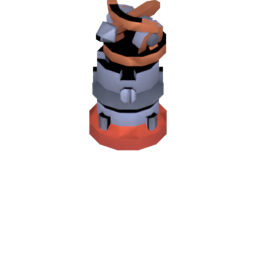
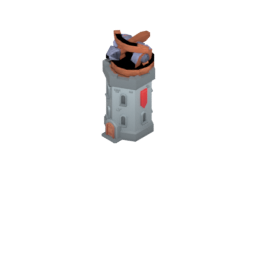
art: 狙擊塔改用 KayKit 中世紀塔座 + Kenney 弩砲，尺寸對齊其他塔
- 塔身換 KayKit Medieval Hexagon 的 tower_base_red（武器平台），與火炮塔
  同視覺家族（灰石+紅旗）；弩砲沉入城垛內平台（dz -0.10、scale 1.45）
- 依現役塔身圖實測內容高（108~115px）把 ortho_scale 調到 5.0：
  改前 151px 且截頂，改後 115px 完整顯示
- render_sprites.py 新增 dz（堆疊後垂直偏移）與 rz（模型自轉）參數

Changed region(s): [[0.3438, 0.0, 0.6562, 0.5938]]

diff --git a/lib/game/tower_defense_game.dart b/lib/game/tower_defense_game.dart
@@ -191,7 +191,8 @@ class TowerDefenseGame extends FlameGame with ScrollDetector, ScaleDetector {
       // 多重箭：Kenney UFO-A 3D 素材（懸浮支援建築）。
       TowerType.multishot:
           await Sprite.load('tower_multishot.png', images: isoImages),
-      // 狙擊塔：Kenney Tower Defense Kit 圓塔＋弩砲（weapon-ballista）。
+      // 狙擊塔：KayKit Medieval Hexagon 塔座（tower_base_red）＋
+      // Kenney 弩砲（weapon-ballista），與火炮塔同視覺家族。
       TowerType.sniper:
           await Sprite.load('tower_sniper.png', images: isoImages),
     };

diff --git a/tool/render_sprites.py b/tool/render_sprites.py
@@ -23,6 +23,10 @@ manifest.json:
   the same projection and world-unit scale (relative sizes are correct).
 - "stack": true places a model on top of the previously imported model's top
   (e.g. a tower standing on a tile); otherwise it sits on the ground (z=0).
+- "dz": optional z offset applied after placement (e.g. negative to sink a
+  weapon down onto a platform floor below the crenellation top).
+- "rz": optional rotation (degrees) around the model's own vertical axis,
+  applied before placement (e.g. turn a weapon to face the camera).
 - Background is transparent.
 """
 
@@ -180,10 +184,17 @@ def main():
                     if o.parent is None:
                         o.scale *= sc
                 bpy.context.view_layer.update()
+            rz = m.get("rz", 0.0)
+            if rz:
+                for o in objs:
+                    if o.parent is None:
+                        o.rotation_euler.rotate_axis("Z", radians(rz))
+                bpy.context.view_layer.update()
             mn, mx = bbox_world(objs)
             cx = (mn.x + mx.x) / 2
             cy = (mn.y + mx.y) / 2
             dz = (stack_top - mn.z) if m.get("stack") else (-mn.z)
+            dz += m.get("dz", 0.0)
             ox, oy = (m.get("offset") or [0, 0])
             for o in objs:
                 if o.parent is None:
